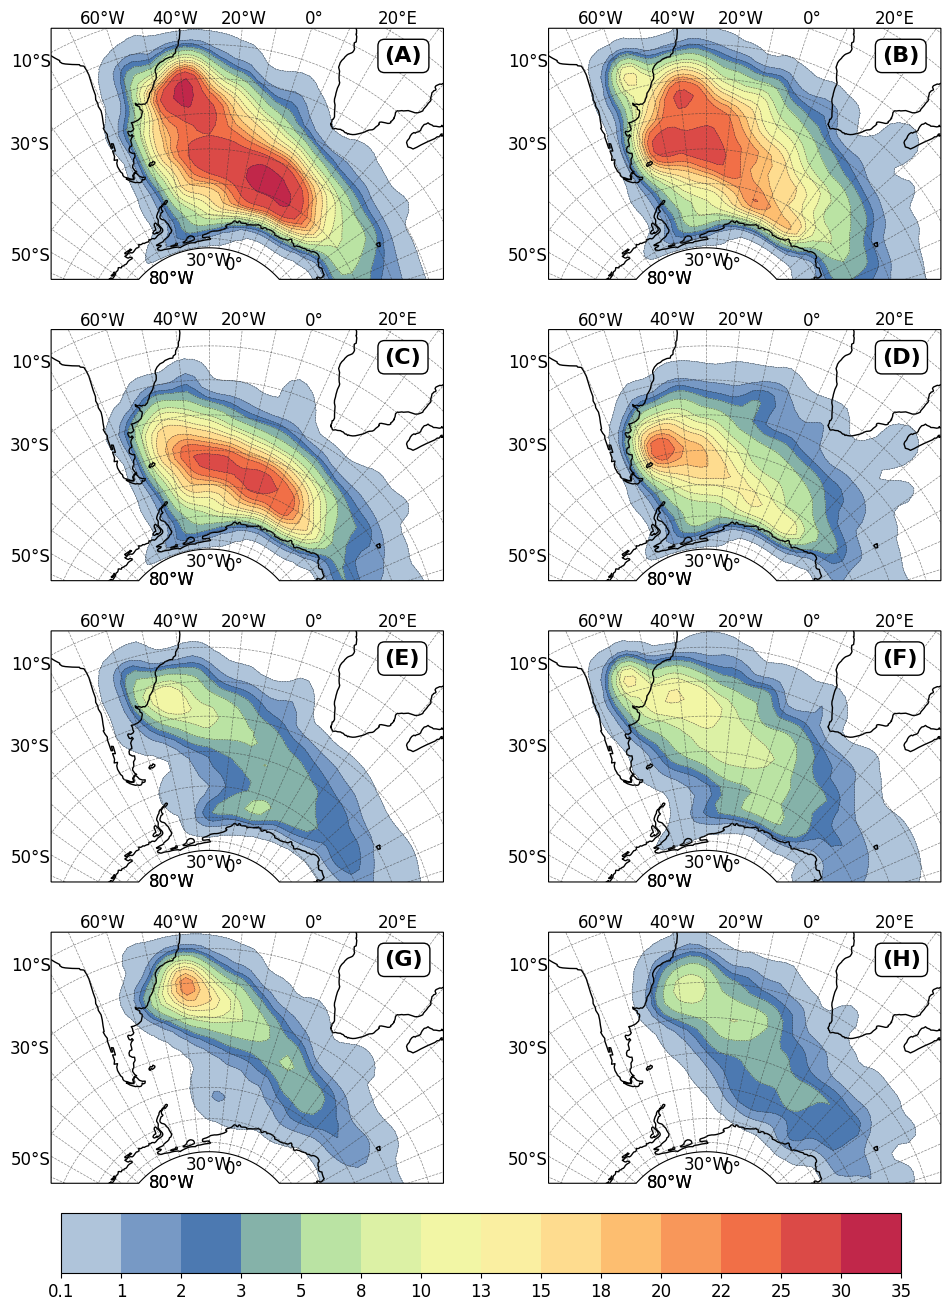
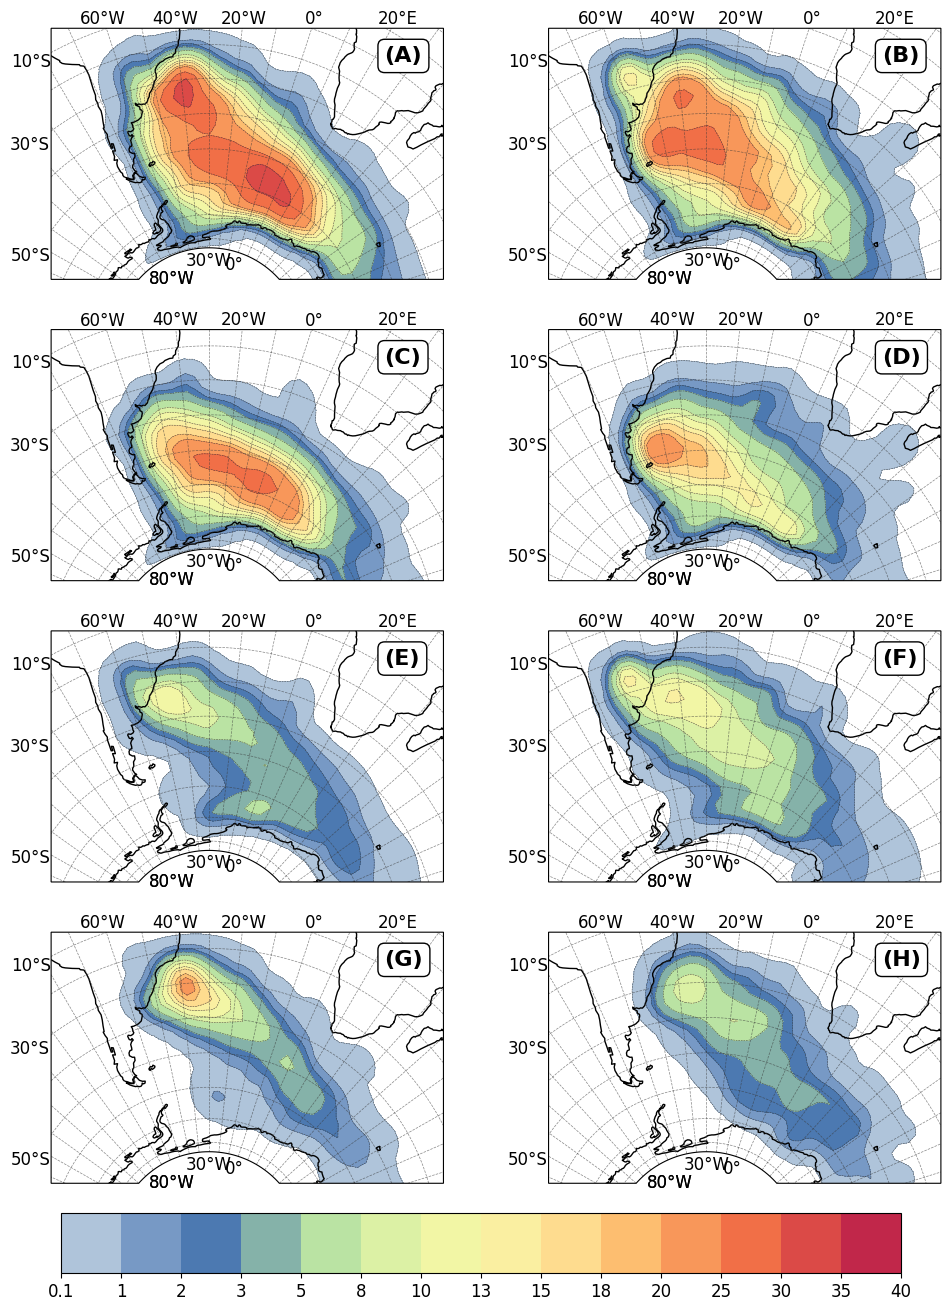
little update

diff --git a/src_chapter_4/map_track_density.py b/src_chapter_4/map_track_density.py
@@ -6,7 +6,7 @@
 #    By: daniloceano <danilo.oceano@gmail.com>      +#+  +:+       +#+         #
 #                                                 +#+#+#+#+#+   +#+            #
 #    Created: 2024/06/13 09:22:31 by daniloceano       #+#    #+#              #
-#    Updated: 2024/06/13 19:03:06 by daniloceano      ###   ########.fr        #
+#    Updated: 2024/06/14 13:05:31 by daniloceano      ###   ########.fr        #
 #                                                                              #
 # **************************************************************************** #
 
@@ -84,7 +84,7 @@ def plot_density(fig, ax, phase, density, label):
         'incipient': [0.1, 1, 2, 3, 5, 8, 10, 13, 15, 18, 20, 22, 25, 30, 35],
         'intensification': [0.1, 1, 2, 5, 8, 10, 15, 20, 30, 40, 50, 60, 80, 100],
         'mature': [0.1, 1, 2, 3, 4, 5, 6, 7, 8, 9, 10, 12, 14, 16, 18, 20],
-        'decay': [0.1, 1, 2, 3, 5, 8, 10, 13, 15, 18, 20, 22, 25, 30, 35],
+        'decay': [0.1, 1, 2, 3, 5, 8, 10, 13, 15, 18, 20, 25, 30, 35, 40],
         'default': [0.1, 1, 2, 3, 4, 5, 6, 7, 8, 9, 10, 12, 14, 16, 18, 20]
     }
     levels = levels_dict.get(phase, levels_dict['default'])
